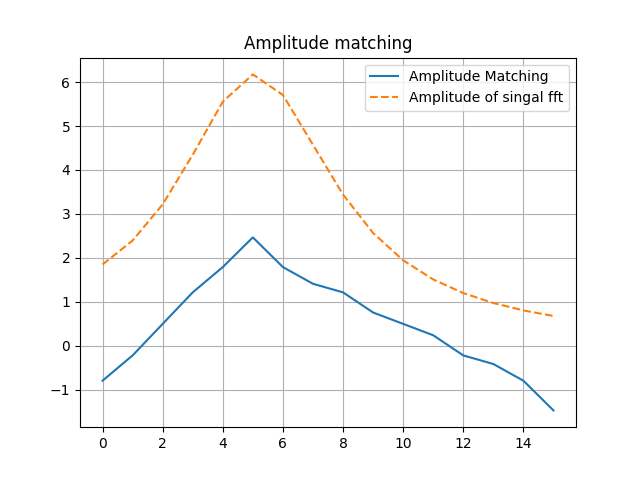
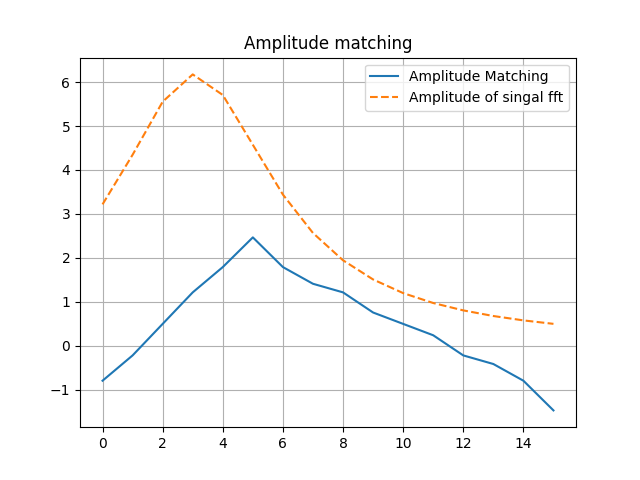
change def function form

diff --git a/matching_wavelet.py b/matching_wavelet.py
@@ -13,6 +13,7 @@ T = 2 ** l # period
 delta_omega = 2*np.pi / T
 P = int(N / T) # number of period
 R = 2 # degree of phase function of lanmda_T
+a = 1.0348 # constant. hyperparameters
 
 print(len(timepoints))
 
@@ -26,47 +27,53 @@ def f_T(x) :
     return x * np.exp(-alpha * x) * np.cos(2*np.pi*f_0*x) * u
 signal = [f_T(x) for x in timepoints]
 
-# Make matrix A
-A = np.zeros((11,16))
-A[0][0] = A[0][6] = 1
-A[1][1] = A[1][8] = 1
-A[2][2] = A[2][10] = 1
-A[3][3] = A[3][12] = 1
-A[4][4] = A[4][14] = 1
-A[5][5] = A[5][15] = 1
-A[6][6] = A[6][14] = 1
-A[7][7] = A[7][13] = 1
-A[8][8] = A[8][12] = 1
-A[9][9] = A[9][11] = 1
-A[10][10] = 2
+def make_A(size) :
+    # Make matrix A
+    A = np.zeros(size)
+    A[0][0] = A[0][6] = 1
+    A[1][1] = A[1][8] = 1
+    A[2][2] = A[2][10] = 1
+    A[3][3] = A[3][12] = 1
+    A[4][4] = A[4][14] = 1
+    A[5][5] = A[5][15] = 1
+    A[6][6] = A[6][14] = 1
+    A[7][7] = A[7][13] = 1
+    A[8][8] = A[8][12] = 1
+    A[9][9] = A[9][11] = 1
+    A[10][10] = 2
+    return A
 
+def matching_wavelet(signal, N, l, T, delta_omega, P, R, a) :
+    # Make matrix A
+    A = make_A((11,16))
 
-# Make matrix W
-fft = np.fft.fft(signal)
-fft_magnitude = abs(fft)
+    # Make matrix W
+    fft = np.fft.fft(signal)
+    # fft = np.fft.fftshift(fft)
+    fft_magnitude = abs(fft)
 
-start_n = int(2**l / 3) + 1
-end_n = int((2**(l+2)) / 3)
-W = np.array(fft_magnitude[start_n-1: end_n]) # W.shape = (end_n - start_n + 1, 1)
-if end_n - start_n + 1 == W.shape[0] :
-    print("Right the size of W")
-    print(f"W.shape {W.shape} | end_n - start_n {end_n - start_n + 1}")
-else :
-    print(f"W.shape have to equal to {end_n - start_n + 1}. Configure the size.")
+    start_n = int(2**l / 3) + 1
+    end_n = int((2**(l+2)) / 3)
+    W = np.array(fft_magnitude[start_n-1: end_n]) # W.shape = (end_n - start_n + 1, 1)
+    if end_n - start_n + 1 == W.shape[0] :
+        print("Right the size of W")
+        print(f"W.shape {W.shape} | end_n - start_n {end_n - start_n + 1}")
+    else :
+        print(f"W.shape have to equal to {end_n - start_n + 1}. Configure the size.")
 
-# Calculate Y
-a = 1.0348 # constant. hyperparameters
-A_t = np.transpose(A)
-Y1 = np.matmul(A_t, np.linalg.inv(np.matmul(A, A_t)))
-Y2 = np.ones(A.shape[0]) - 1/a * np.matmul(A, W)
-Y = 1/a * W + np.matmul(Y1, Y2)
-print(Y.shape)
+    # Calculate Y
+    A_t = np.transpose(A)
+    Y1 = np.matmul(A_t, np.linalg.inv(np.matmul(A, A_t)))
+    Y2 = np.ones(A.shape[0]) - 1/a * np.matmul(A, W)
+    Y = 1/a * W + np.matmul(Y1, Y2)
+    return Y, W
 
+Y, W = matching_wavelet(signal, N, l, T, delta_omega, P, R, a)
 
 # Draw the vector Y
 plt.title("Amplitude matching")
 plt.plot([i for i in range(Y.shape[0])], Y, label='Amplitude Matching')
-plt.plot([i for i in range(Y.shape[0])], fft_magnitude[start_n-3:end_n-2], '--', label='Amplitude of singal fft')
+plt.plot([i for i in range(Y.shape[0])], W, '--', label='Amplitude of singal fft')
 plt.grid()
 plt.legend()
 
